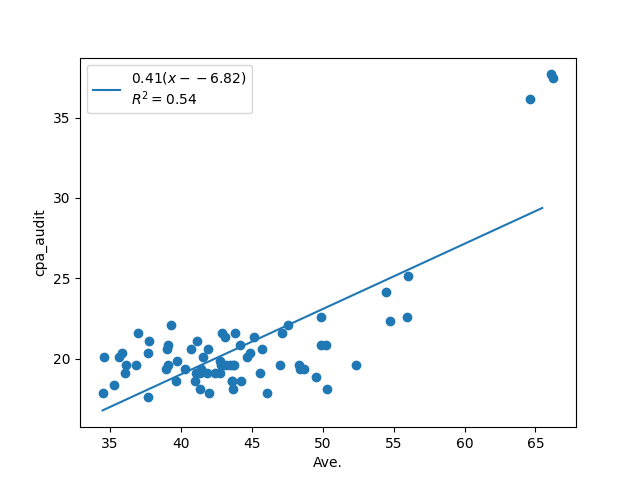
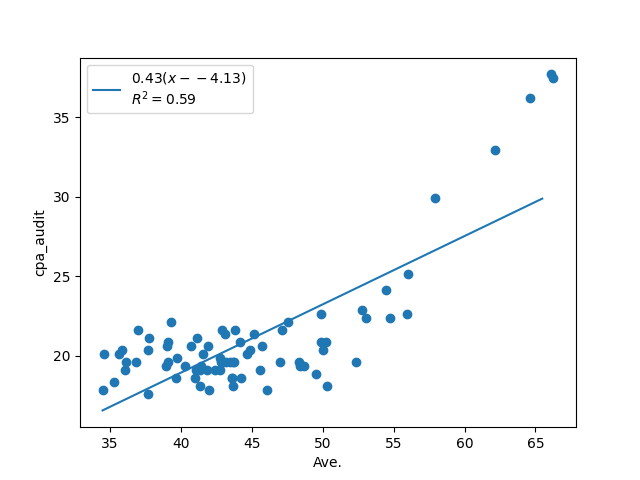
added results

diff --git a/README.md b/README.md
@@ -8,11 +8,14 @@ This is a harness for Japanese language model evaluation in the financial domain
 | openai/gpt-4-32k | 66.27 | 93.16 | 81.58 | 37.44 | 50.74 | 68.42 |
 | openai/gpt-4 | 66.07 | 93.20 | 78.95 | 37.69 | 50.32 | 70.18 |
 | openai/gpt-4-turbo | 64.59 | 92.86 | 76.32 | 36.18 | 50.95 | 66.67 |
+| [Qwen/Qwen-72B](https://huggingface.co/Qwen/Qwen-72B) | 62.18 | 92.36 | 78.95 | 32.91 | 40.00 | 66.67 |
+| [Qwen/Qwen-72B-Chat](https://huggingface.co/Qwen/Qwen-72B-Chat) | 57.89 | 92.52 | 78.95 | 29.90 | 28.42 | 59.65 |
 | [rinna/nekomata-14b](https://huggingface.co/rinna/nekomata-14b) | 56.03 | 89.70 | 63.16 | 25.13 | 42.53 | 59.65 |
 | [Qwen/Qwen-14B](https://huggingface.co/Qwen/Qwen-14B) | 55.95 | 90.73 | 63.16 | 22.61 | 38.32 | 64.91 |
 | [Qwen/Qwen-14B-Chat](https://huggingface.co/Qwen/Qwen-14B-Chat) | 54.71 | 91.56 | 65.79 | 22.36 | 32.42 | 61.40 |
 | [rinna/nekomata-14b-instruction](https://huggingface.co/rinna/nekomata-14b-instruction) | 54.43 | 91.27 | 63.16 | 24.12 | 37.47 | 56.14 |
 | [stabilityai/japanese-stablelm-base-beta-70b](https://huggingface.co/stabilityai/japanese-stablelm-base-beta-70b) | 53.07 | 90.87 | 60.53 | 22.36 | 33.68 | 57.89 |
+| [stabilityai/japanese-stablelm-instruct-beta-70b](https://huggingface.co/stabilityai/japanese-stablelm-instruct-beta-70b) | 52.77 | 91.85 | 60.53 | 22.86 | 36.00 | 52.63 |
 | [tokyotech-llm/Swallow-13b-instruct-hf](https://huggingface.co/tokyotech-llm/Swallow-13b-instruct-hf) | 52.32 | 87.79 | 60.53 | 19.60 | 35.79 | 57.89 |
 | openai/gpt-35-turbo | 50.27 | 89.98 | 52.63 | 18.09 | 29.26 | 61.40 |
 | [meta-llama/Llama-2-70b-hf](https://huggingface.co/meta-llama/Llama-2-70b-hf) | 50.21 | 89.37 | 57.89 | 20.85 | 30.32 | 52.63 |
